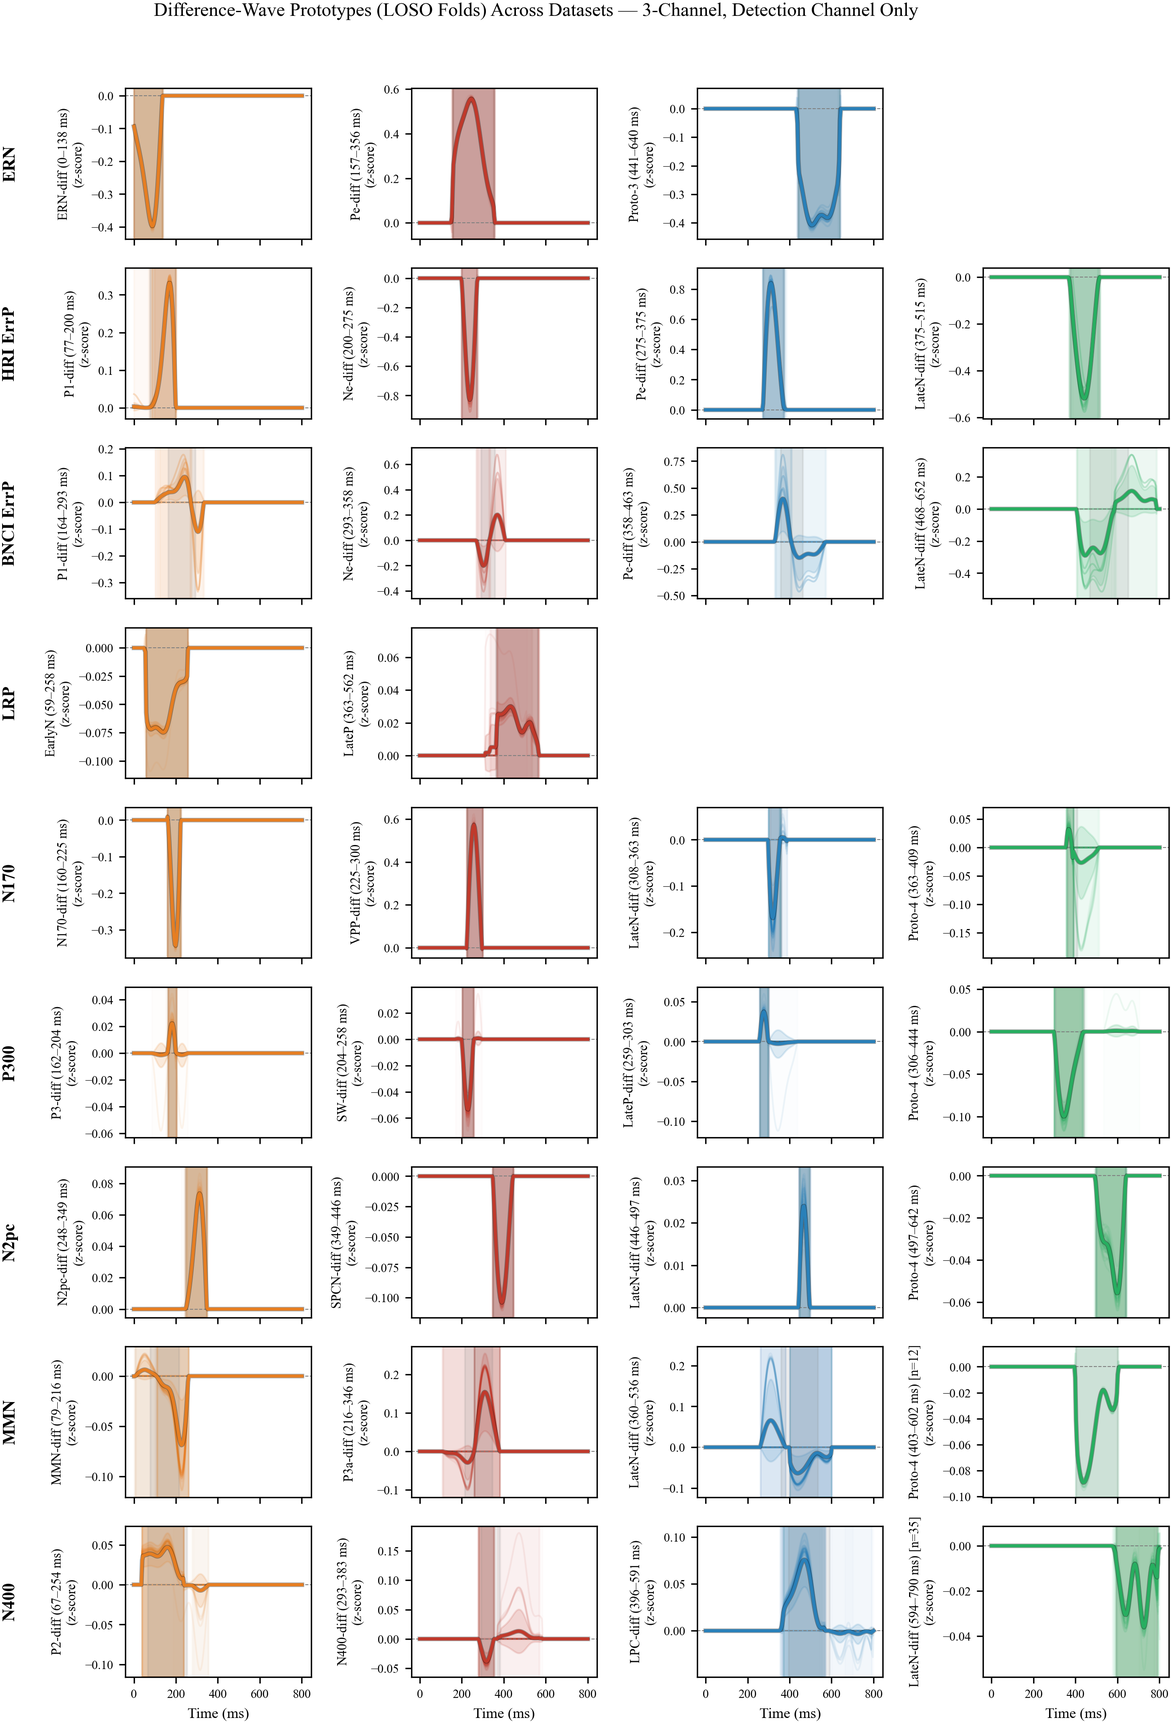
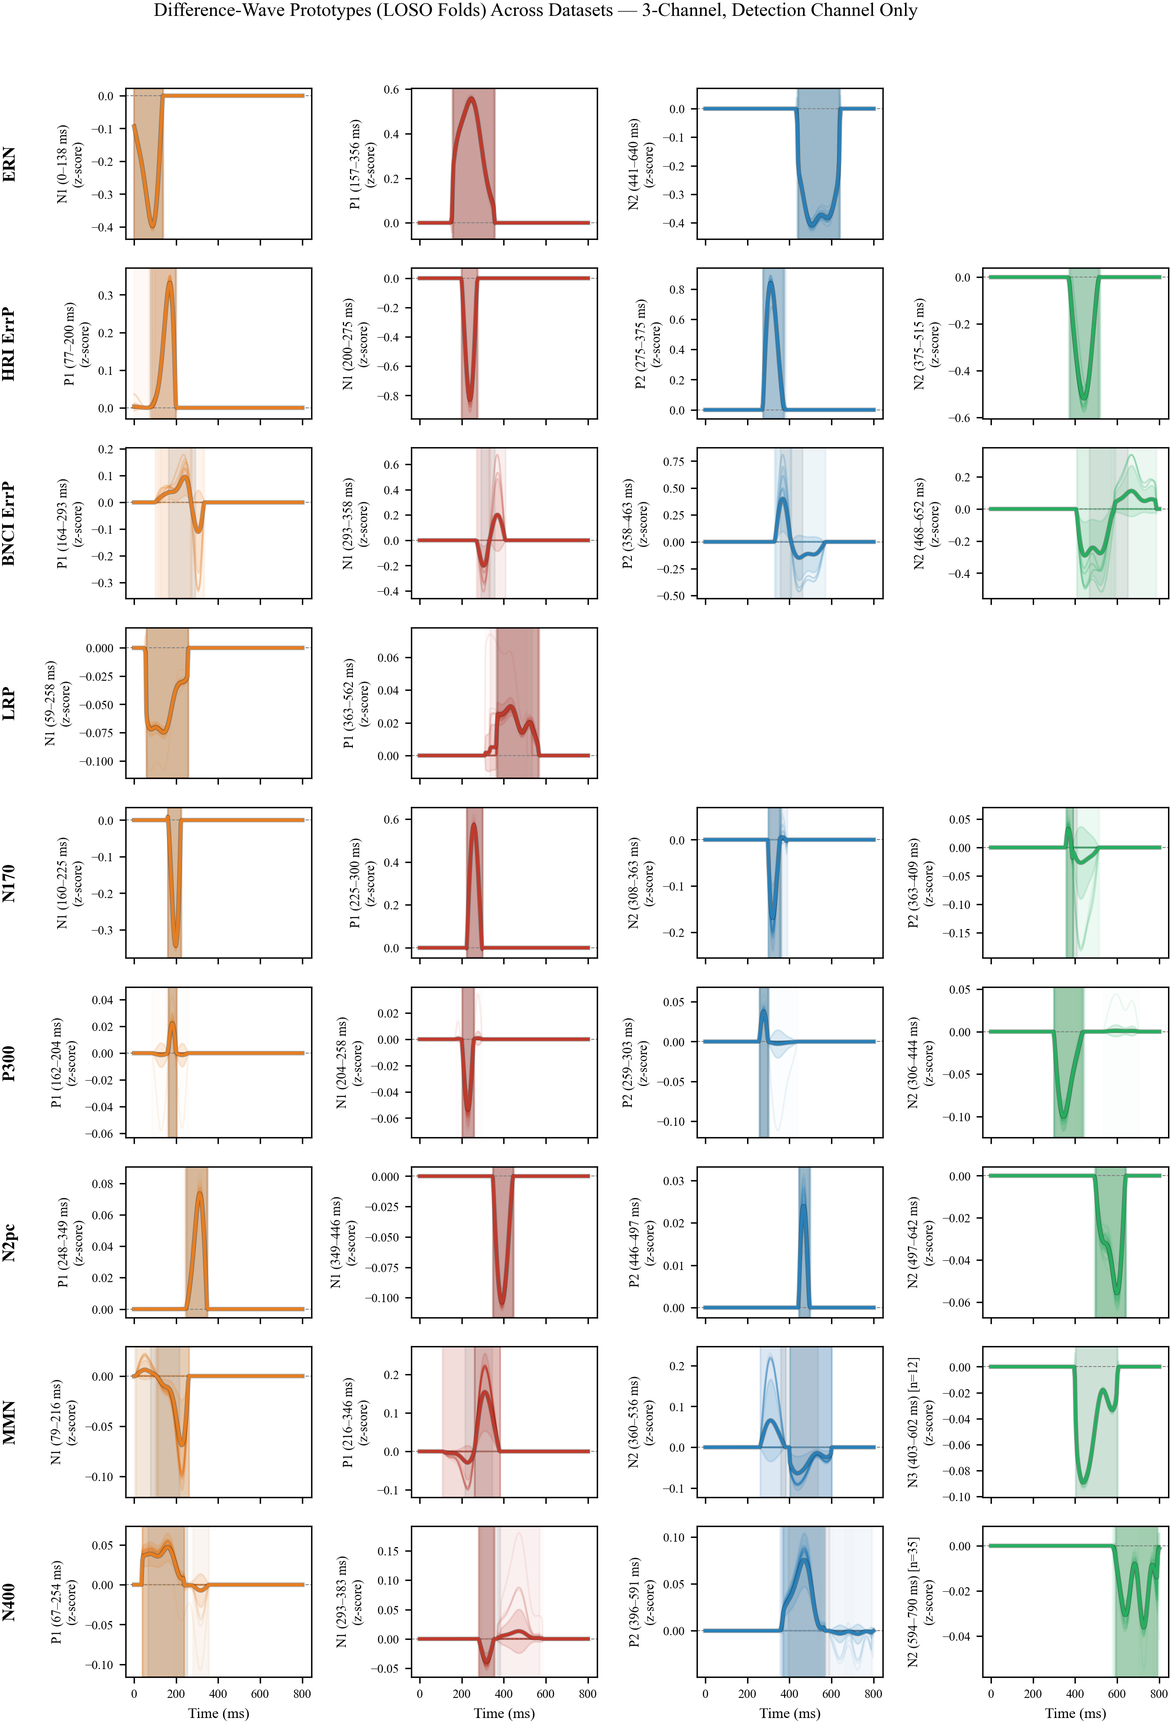
fix figures and tables

diff --git a/07_gen_paper_figures.py b/07_gen_paper_figures.py
@@ -944,16 +944,9 @@ def _proto_names_for(ds_dir, K):
     return names[:K]
 
 
-def _proto_fold_names(proto_raw, proto_windows, det_idx, sfreq, ds_dir=None):
-    """Return prototype names. Prefer dataset_config.proto_names when its
-    length matches the actual K; otherwise fall back to the auto-mode
-    polarity-derived names (P1, P2, ... / N1, N2, ...)."""
+def _proto_fold_names(proto_raw, proto_windows, det_idx, sfreq):
+    """Polarity-derived prototype names (P1, P2, ... / N1, N2, ...)."""
     K = proto_raw.shape[0]
-    if ds_dir is not None:
-        cfg = json.load(open(DATASETS_DIR / ds_dir / 'dataset_config.json'))
-        cfg_names = list(cfg.get('proto_names', []))
-        if len(cfg_names) == K:
-            return cfg_names
     pos_count = neg_count = 0
     names = []
     for k in range(K):
@@ -1117,7 +1110,14 @@ def fig_prototypes_single_dataset(ds_label, ds_dir, var_dir, det_idx,
         windows.append(tuple(np.round(np.mean(wks, axis=0), 1)))
     T = next(iter(all_protos.values())).shape[1]
     time_ms = np.arange(T) / sfreq * 1000
-    proto_names = _proto_names_for(ds_dir, K)
+    rdir_protos = sorted(rdir.glob('prototypes_*.npz'))
+    mean_proto = np.zeros((K, 3, T))
+    for f in rdir_protos:
+        d = np.load(f)
+        p = d['mf_template']
+        mean_proto[:p.shape[0]] += p
+    mean_proto /= max(len(rdir_protos), 1)
+    proto_names = _proto_fold_names(mean_proto, windows, det_idx, sfreq)
     n_subj = len(subjects)
 
     trace_alpha = 0.65
@@ -1211,11 +1211,17 @@ def fig_prototypes_all_datasets():
             windows.append(tuple(np.round(np.mean(wks, axis=0), 1)))
         T = next(iter(all_protos.values())).shape[1]
         time_ms = np.arange(T) / sfreq * 1000
+        C_full = np.load(proto_files[0])['mf_template'].shape[1]
+        mean_proto = np.zeros((K, C_full, T))
+        for f in proto_files:
+            p = np.load(f)['mf_template']
+            mean_proto[:p.shape[0]] += p
+        mean_proto /= max(len(proto_files), 1)
         per_ds.append({
             'name': name, 'subjects': subjects, 'protos': all_protos,
             'per_fold_windows': per_fold_windows, 'fold_K': fold_K,
             'K': K, 'windows': windows, 'time_ms': time_ms,
-            'proto_names': _proto_names_for(ds_dir, K),
+            'proto_names': _proto_fold_names(mean_proto, windows, det_idx, sfreq),
             'n_subj': len(subjects),
         })
 
@@ -1794,7 +1800,7 @@ def write_fullmontage_auroc_table(out_path):
          r'\label{sup:tab-fullmontage-auroc}',
          r'\begin{tabular}{lcccccc}', r'\toprule',
          r'Dataset & ERP-XTTN & EEGNet & EEG-Deformer & EPMN & xDAWN+RG & $\Delta$ \\', r'\midrule']
-    all_means = {n: [] for n, _ in _SUP_METHODS}
+    all_rounded = {n: [] for n, _ in _SUP_METHODS}
     all_deltas = []
     for lab, d in _sup_rows():
         vf = d[3]
@@ -1802,7 +1808,8 @@ def write_fullmontage_auroc_table(out_path):
         for name, mdl in _SUP_METHODS:
             pj = _persubj_fusion(d[1], vf, mdl) if mdl == 'erpxttn_peak' else _persubj_forward(d[1], vf, mdl)
             m, s, n = _msd(pj)
-            vals[name] = (m, s)
+            vals[name] = (round(m, 3) if m is not None else None,
+                          round(s, 3) if s is not None else None)
         best = max((v[0] for v in vals.values() if v[0] is not None), default=None)
         cells = []
         for name, _ in _SUP_METHODS:
@@ -1810,7 +1817,7 @@ def write_fullmontage_auroc_table(out_path):
             if m is None:
                 cells.append('--')
             else:
-                all_means[name].append(m)
+                all_rounded[name].append(m)
                 cell = f'{m:.3f} $\\pm$ {s:.3f}'
                 if best is not None and abs(m - best) < 1e-4:
                     cell = r'\textbf{' + cell + '}'
@@ -1818,7 +1825,7 @@ def write_fullmontage_auroc_table(out_path):
         xt_m = vals['ERP-XTTN'][0]
         bl = [vals[n][0] for n, _ in _SUP_METHODS if n != 'ERP-XTTN' and vals[n][0] is not None]
         if bl and xt_m is not None:
-            delta = max(bl) - xt_m
+            delta = round(max(bl) - xt_m, 3)
             all_deltas.append(delta)
             L.append(f'{lab} & ' + ' & '.join(cells) + f' & \\textit{{{delta:.3f}}} \\\\')
         else:
@@ -1826,18 +1833,18 @@ def write_fullmontage_auroc_table(out_path):
     L.append(r'\midrule')
     mean_cells = []
     for name, _ in _SUP_METHODS:
-        v = all_means[name]
-        m = float(np.mean(v)) if v else None
+        v = all_rounded[name]
+        m = round(float(np.mean(v)), 3) if v else None
         if m is None:
             mean_cells.append('--')
         else:
             mean_cells.append(f'{m:.3f}')
-    best_mean = max(float(np.mean(all_means[n])) for n, _ in _SUP_METHODS if all_means[n])
+    best_mean = max(round(float(np.mean(all_rounded[n])), 3) for n, _ in _SUP_METHODS if all_rounded[n])
     for i, (name, _) in enumerate(_SUP_METHODS):
-        v = all_means[name]
-        if v and abs(float(np.mean(v)) - best_mean) < 1e-4:
+        v = all_rounded[name]
+        if v and abs(round(float(np.mean(v)), 3) - best_mean) < 1e-4:
             mean_cells[i] = r'\textbf{' + mean_cells[i] + '}'
-    mean_delta = float(np.mean(all_deltas)) if all_deltas else None
+    mean_delta = round(float(np.mean(all_deltas)), 3) if all_deltas else None
     delta_cell = f'\\textbf{{{mean_delta:.3f}}}' if mean_delta is not None else '--'
     L.append(r'\textit{Mean} & ' + ' & '.join(mean_cells) + f' & {delta_cell} \\\\')
     L += [r'\bottomrule', r'\end{tabular}', r'\end{table}']
@@ -1864,7 +1871,7 @@ def write_fullmontage_ba_table(out_path):
          r'\label{sup:tab-fullmontage-ba}',
          r'\begin{tabular}{lcccccc}', r'\toprule',
          r'Dataset & ERP-XTTN & EEGNet & EEG-Deformer & EPMN & xDAWN+RG & $\Delta$ \\', r'\midrule']
-    all_means = {n: [] for n, _ in _SUP_METHODS}
+    all_rounded = {n: [] for n, _ in _SUP_METHODS}
     all_deltas = []
     for lab, d in _sup_rows():
         vf = d[3]
@@ -1872,7 +1879,8 @@ def write_fullmontage_ba_table(out_path):
         for name, mdl in _SUP_METHODS:
             pj = _persubj_balacc(d[1], vf, mdl)
             m, s, n = _msd(pj)
-            vals[name] = (m, s)
+            vals[name] = (round(m, 3) if m is not None else None,
+                          round(s, 3) if s is not None else None)
         best = max((v[0] for v in vals.values() if v[0] is not None), default=None)
         cells = []
         for name, _ in _SUP_METHODS:
@@ -1880,7 +1888,7 @@ def write_fullmontage_ba_table(out_path):
             if m is None:
                 cells.append('--')
             else:
-                all_means[name].append(m)
+                all_rounded[name].append(m)
                 cell = f'{m:.3f} $\\pm$ {s:.3f}'
                 if best is not None and abs(m - best) < 1e-4:
                     cell = r'\textbf{' + cell + '}'
@@ -1888,7 +1896,7 @@ def write_fullmontage_ba_table(out_path):
         xt_m = vals['ERP-XTTN'][0]
         bl = [vals[n][0] for n, _ in _SUP_METHODS if n != 'ERP-XTTN' and vals[n][0] is not None]
         if bl and xt_m is not None:
-            delta = max(bl) - xt_m
+            delta = round(max(bl) - xt_m, 3)
             all_deltas.append(delta)
             L.append(f'{lab} & ' + ' & '.join(cells) + f' & \\textit{{{delta:.3f}}} \\\\')
         else:
@@ -1896,15 +1904,15 @@ def write_fullmontage_ba_table(out_path):
     L.append(r'\midrule')
     mean_cells = []
     for name, _ in _SUP_METHODS:
-        v = all_means[name]
-        m = float(np.mean(v)) if v else None
+        v = all_rounded[name]
+        m = round(float(np.mean(v)), 3) if v else None
         mean_cells.append(f'{m:.3f}' if m is not None else '--')
-    best_mean = max(float(np.mean(all_means[n])) for n, _ in _SUP_METHODS if all_means[n])
+    best_mean = max(round(float(np.mean(all_rounded[n])), 3) for n, _ in _SUP_METHODS if all_rounded[n])
     for i, (name, _) in enumerate(_SUP_METHODS):
-        v = all_means[name]
-        if v and abs(float(np.mean(v)) - best_mean) < 1e-4:
+        v = all_rounded[name]
+        if v and abs(round(float(np.mean(v)), 3) - best_mean) < 1e-4:
             mean_cells[i] = r'\textbf{' + mean_cells[i] + '}'
-    mean_delta = float(np.mean(all_deltas)) if all_deltas else None
+    mean_delta = round(float(np.mean(all_deltas)), 3) if all_deltas else None
     delta_cell = f'\\textbf{{{mean_delta:.3f}}}' if mean_delta is not None else '--'
     L.append(r'\textit{Mean} & ' + ' & '.join(mean_cells) + f' & {delta_cell} \\\\')
     L += [r'\bottomrule', r'\end{tabular}', r'\end{table}']
@@ -1926,7 +1934,7 @@ def write_balacc_table(out_path):
          r'\label{sup:tab-balacc}',
          r'\begin{tabular}{lcccccc}', r'\toprule',
          r'Dataset & ERP-XTTN & EEGNet & EEG-Deformer & EPMN & xDAWN+RG & $\Delta$ \\', r'\midrule']
-    all_means = {n: [] for n, _ in _SUP_METHODS}
+    all_rounded = {n: [] for n, _ in _SUP_METHODS}
     all_deltas = []
     for lab, d in _sup_rows():
         v3 = d[2]
@@ -1934,7 +1942,8 @@ def write_balacc_table(out_path):
         for name, mdl in _SUP_METHODS:
             pj = _persubj_balacc(d[1], v3, mdl)
             m, s, n = _msd(pj)
-            vals[name] = (m, s)
+            vals[name] = (round(m, 3) if m is not None else None,
+                          round(s, 3) if s is not None else None)
         best = max((v[0] for v in vals.values() if v[0] is not None), default=None)
         cells = []
         for name, _ in _SUP_METHODS:
@@ -1942,7 +1951,7 @@ def write_balacc_table(out_path):
             if m is None:
                 cells.append('--')
             else:
-                all_means[name].append(m)
+                all_rounded[name].append(m)
                 cell = f'{m:.3f} $\\pm$ {s:.3f}'
                 if best is not None and abs(m - best) < 1e-4:
                     cell = r'\textbf{' + cell + '}'
@@ -1950,7 +1959,7 @@ def write_balacc_table(out_path):
         xt_m = vals['ERP-XTTN'][0]
         bl = [vals[n][0] for n, _ in _SUP_METHODS if n != 'ERP-XTTN' and vals[n][0] is not None]
         if bl and xt_m is not None:
-            delta = max(bl) - xt_m
+            delta = round(max(bl) - xt_m, 3)
             all_deltas.append(delta)
             L.append(f'{lab} & ' + ' & '.join(cells) + f' & \\textit{{{delta:.3f}}} \\\\')
         else:
@@ -1958,15 +1967,15 @@ def write_balacc_table(out_path):
     L.append(r'\midrule')
     mean_cells = []
     for name, _ in _SUP_METHODS:
-        v = all_means[name]
-        m = float(np.mean(v)) if v else None
+        v = all_rounded[name]
+        m = round(float(np.mean(v)), 3) if v else None
         mean_cells.append(f'{m:.3f}' if m is not None else '--')
-    best_mean = max(float(np.mean(all_means[n])) for n, _ in _SUP_METHODS if all_means[n])
+    best_mean = max(round(float(np.mean(all_rounded[n])), 3) for n, _ in _SUP_METHODS if all_rounded[n])
     for i, (name, _) in enumerate(_SUP_METHODS):
-        v = all_means[name]
-        if v and abs(float(np.mean(v)) - best_mean) < 1e-4:
+        v = all_rounded[name]
+        if v and abs(round(float(np.mean(v)), 3) - best_mean) < 1e-4:
             mean_cells[i] = r'\textbf{' + mean_cells[i] + '}'
-    mean_delta = float(np.mean(all_deltas)) if all_deltas else None
+    mean_delta = round(float(np.mean(all_deltas)), 3) if all_deltas else None
     delta_cell = f'\\textbf{{{mean_delta:.3f}}}' if mean_delta is not None else '--'
     L.append(r'\textit{Mean} & ' + ' & '.join(mean_cells) + f' & {delta_cell} \\\\')
     L += [r'\bottomrule', r'\end{tabular}', r'\end{table}']
@@ -2853,7 +2862,7 @@ def write_main_auroc_table(out_path):
          r'Dataset & ERP-XTTN & EEGNet & EEG-Deformer & EPMN & xDAWN+RG & $\Delta$ \\',
          r'\midrule']
     rows = _difficulty_order()
-    all_means = {n: [] for n, _ in _SUP_METHODS}
+    all_rounded = {n: [] for n, _ in _SUP_METHODS}
     all_deltas = []
     for d in rows:
         lab = d[0].replace(' ErrP', '')
@@ -2862,7 +2871,8 @@ def write_main_auroc_table(out_path):
         for name, mdl in _SUP_METHODS:
             pj = _persubj_fusion(d[1], v3, mdl) if mdl == 'erpxttn_peak' else _persubj_forward(d[1], v3, mdl)
             m, s, n = _msd(pj)
-            vals[name] = (m, s)
+            vals[name] = (round(m, 3) if m is not None else None,
+                          round(s, 3) if s is not None else None)
         best = max((v[0] for v in vals.values() if v[0] is not None), default=None)
         cells = []
         for name, _ in _SUP_METHODS:
@@ -2870,7 +2880,7 @@ def write_main_auroc_table(out_path):
             if m is None:
                 cells.append('--')
             else:
-                all_means[name].append(m)
+                all_rounded[name].append(m)
                 cell = f'{m:.3f} $\\pm$ {s:.3f}'
                 if best is not None and abs(m - best) < 1e-4:
                     cell = r'\textbf{' + cell + '}'
@@ -2878,7 +2888,7 @@ def write_main_auroc_table(out_path):
         xt_m = vals['ERP-XTTN'][0]
         bl = [vals[n][0] for n, _ in _SUP_METHODS if n != 'ERP-XTTN' and vals[n][0] is not None]
         if bl and xt_m is not None:
-            delta = max(bl) - xt_m
+            delta = round(max(bl) - xt_m, 3)
             all_deltas.append(delta)
             L.append(f'{lab} & ' + ' & '.join(cells) + f' & \\textit{{{delta:.3f}}} \\\\')
         else:
@@ -2886,18 +2896,18 @@ def write_main_auroc_table(out_path):
     L.append(r'\midrule')
     mean_cells = []
     for name, _ in _SUP_METHODS:
-        v = all_means[name]
-        m = float(np.mean(v)) if v else None
+        v = all_rounded[name]
+        m = round(float(np.mean(v)), 3) if v else None
         if m is None:
             mean_cells.append('--')
         else:
             mean_cells.append(f'{m:.3f}')
-    best_mean = max(float(np.mean(all_means[n])) for n, _ in _SUP_METHODS if all_means[n])
+    best_mean = max(round(float(np.mean(all_rounded[n])), 3) for n, _ in _SUP_METHODS if all_rounded[n])
     for i, (name, _) in enumerate(_SUP_METHODS):
-        v = all_means[name]
-        if v and abs(float(np.mean(v)) - best_mean) < 1e-4:
+        v = all_rounded[name]
+        if v and abs(round(float(np.mean(v)), 3) - best_mean) < 1e-4:
             mean_cells[i] = r'\textbf{' + mean_cells[i] + '}'
-    mean_delta = float(np.mean(all_deltas)) if all_deltas else None
+    mean_delta = round(float(np.mean(all_deltas)), 3) if all_deltas else None
     delta_cell = f'\\textbf{{{mean_delta:.3f}}}' if mean_delta is not None else '--'
     L.append(r'\textit{Mean} & ' + ' & '.join(mean_cells) + f' & {delta_cell} \\\\')
     L += [r'\bottomrule', r'\end{tabular}', r'\end{table}']

diff --git a/paper_figures/tableS6_balanced_accuracy.tex b/paper_figures/tableS6_balanced_accuracy.tex
@@ -10,17 +10,17 @@ Balanced accuracy (mean $\pm$ standard deviation across subjects, LOSO) at thres
 \toprule
 Dataset & ERP-XTTN & EEGNet & EEG-Deformer & EPMN & xDAWN+RG & $\Delta$ \\
 \midrule
-HRI & 0.766 $\pm$ 0.096 & \textbf{0.775 $\pm$ 0.097} & 0.773 $\pm$ 0.090 & 0.738 $\pm$ 0.099 & 0.749 $\pm$ 0.106 & \textit{0.008} \\
+HRI & 0.766 $\pm$ 0.096 & \textbf{0.775 $\pm$ 0.097} & 0.773 $\pm$ 0.090 & 0.738 $\pm$ 0.099 & 0.749 $\pm$ 0.106 & \textit{0.009} \\
 ERN & 0.745 $\pm$ 0.097 & \textbf{0.773 $\pm$ 0.098} & 0.740 $\pm$ 0.103 & 0.697 $\pm$ 0.093 & 0.568 $\pm$ 0.074 & \textit{0.028} \\
 LRP & 0.689 $\pm$ 0.065 & 0.705 $\pm$ 0.069 & 0.691 $\pm$ 0.070 & 0.694 $\pm$ 0.063 & \textbf{0.716 $\pm$ 0.064} & \textit{0.027} \\
 BNCI & 0.708 $\pm$ 0.074 & \textbf{0.711 $\pm$ 0.078} & 0.707 $\pm$ 0.074 & 0.668 $\pm$ 0.075 & 0.637 $\pm$ 0.059 & \textit{0.003} \\
 N170 & 0.661 $\pm$ 0.077 & 0.646 $\pm$ 0.090 & 0.644 $\pm$ 0.081 & 0.636 $\pm$ 0.077 & \textbf{0.667 $\pm$ 0.087} & \textit{0.006} \\
 P300 & 0.618 $\pm$ 0.053 & \textbf{0.649 $\pm$ 0.070} & 0.643 $\pm$ 0.061 & 0.596 $\pm$ 0.054 & 0.512 $\pm$ 0.019 & \textit{0.031} \\
-N2pc & 0.595 $\pm$ 0.061 & 0.599 $\pm$ 0.071 & 0.594 $\pm$ 0.066 & 0.588 $\pm$ 0.061 & \textbf{0.601 $\pm$ 0.070} & \textit{0.005} \\
+N2pc & 0.595 $\pm$ 0.061 & 0.599 $\pm$ 0.071 & 0.594 $\pm$ 0.066 & 0.588 $\pm$ 0.061 & \textbf{0.601 $\pm$ 0.070} & \textit{0.006} \\
 MMN & 0.561 $\pm$ 0.036 & \textbf{0.564 $\pm$ 0.036} & 0.554 $\pm$ 0.031 & 0.534 $\pm$ 0.022 & 0.500 $\pm$ 0.000 & \textit{0.003} \\
 N400 & 0.544 $\pm$ 0.058 & \textbf{0.563 $\pm$ 0.065} & 0.548 $\pm$ 0.052 & 0.550 $\pm$ 0.055 & 0.554 $\pm$ 0.059 & \textit{0.019} \\
 \midrule
-\textit{Mean} & 0.654 & \textbf{0.665} & 0.655 & 0.633 & 0.611 & \textbf{0.015} \\
+\textit{Mean} & 0.654 & \textbf{0.665} & 0.655 & 0.633 & 0.612 & \textbf{0.015} \\
 \bottomrule
 \end{tabular}
 \end{table}

diff --git a/paper_figures/tableS1_fullmontage_auroc.tex b/paper_figures/tableS1_fullmontage_auroc.tex
@@ -12,10 +12,10 @@ Dataset & ERP-XTTN & EEGNet & EEG-Deformer & EPMN & xDAWN+RG & $\Delta$ \\
 \midrule
 HRI & 0.850 $\pm$ 0.098 & 0.869 $\pm$ 0.092 & \textbf{0.877 $\pm$ 0.099} & 0.844 $\pm$ 0.101 & 0.869 $\pm$ 0.085 & \textit{0.027} \\
 ERN & 0.925 $\pm$ 0.055 & \textbf{0.951 $\pm$ 0.042} & 0.942 $\pm$ 0.047 & 0.927 $\pm$ 0.052 & 0.928 $\pm$ 0.054 & \textit{0.026} \\
-LRP & 0.850 $\pm$ 0.067 & \textbf{0.871 $\pm$ 0.070} & 0.868 $\pm$ 0.064 & 0.843 $\pm$ 0.066 & 0.854 $\pm$ 0.074 & \textit{0.022} \\
-BNCI & 0.776 $\pm$ 0.062 & \textbf{0.845 $\pm$ 0.063} & 0.842 $\pm$ 0.089 & 0.811 $\pm$ 0.072 & 0.820 $\pm$ 0.061 & \textit{0.070} \\
+LRP & 0.850 $\pm$ 0.067 & \textbf{0.871 $\pm$ 0.070} & 0.868 $\pm$ 0.064 & 0.843 $\pm$ 0.066 & 0.854 $\pm$ 0.074 & \textit{0.021} \\
+BNCI & 0.776 $\pm$ 0.062 & \textbf{0.845 $\pm$ 0.063} & 0.842 $\pm$ 0.089 & 0.811 $\pm$ 0.072 & 0.820 $\pm$ 0.061 & \textit{0.069} \\
 N170 & 0.768 $\pm$ 0.099 & 0.755 $\pm$ 0.100 & 0.774 $\pm$ 0.104 & 0.732 $\pm$ 0.095 & \textbf{0.793 $\pm$ 0.098} & \textit{0.025} \\
-P300 & 0.700 $\pm$ 0.084 & 0.772 $\pm$ 0.092 & \textbf{0.780 $\pm$ 0.095} & 0.732 $\pm$ 0.088 & 0.722 $\pm$ 0.090 & \textit{0.081} \\
+P300 & 0.700 $\pm$ 0.084 & 0.772 $\pm$ 0.092 & \textbf{0.780 $\pm$ 0.095} & 0.732 $\pm$ 0.088 & 0.722 $\pm$ 0.090 & \textit{0.080} \\
 N2pc & 0.682 $\pm$ 0.076 & 0.698 $\pm$ 0.088 & \textbf{0.701 $\pm$ 0.089} & 0.670 $\pm$ 0.075 & 0.672 $\pm$ 0.077 & \textit{0.019} \\
 MMN & 0.611 $\pm$ 0.046 & 0.617 $\pm$ 0.048 & 0.614 $\pm$ 0.049 & 0.572 $\pm$ 0.036 & \textbf{0.626 $\pm$ 0.052} & \textit{0.015} \\
 N400 & 0.723 $\pm$ 0.075 & \textbf{0.761 $\pm$ 0.079} & 0.727 $\pm$ 0.080 & 0.720 $\pm$ 0.084 & 0.712 $\pm$ 0.078 & \textit{0.038} \\

diff --git a/paper_figures/table2_auroc_3ch.tex b/paper_figures/table2_auroc_3ch.tex
@@ -10,14 +10,14 @@ Dataset & ERP-XTTN & EEGNet & EEG-Deformer & EPMN & xDAWN+RG & $\Delta$ \\
 HRI & 0.837 $\pm$ 0.101 & \textbf{0.858 $\pm$ 0.101} & 0.852 $\pm$ 0.097 & 0.831 $\pm$ 0.100 & 0.837 $\pm$ 0.107 & \textit{0.021} \\
 ERN & 0.824 $\pm$ 0.110 & \textbf{0.869 $\pm$ 0.093} & 0.840 $\pm$ 0.097 & 0.795 $\pm$ 0.096 & 0.793 $\pm$ 0.130 & \textit{0.045} \\
 LRP & 0.761 $\pm$ 0.080 & 0.792 $\pm$ 0.084 & 0.786 $\pm$ 0.081 & 0.769 $\pm$ 0.080 & \textbf{0.796 $\pm$ 0.074} & \textit{0.035} \\
-BNCI & 0.771 $\pm$ 0.084 & \textbf{0.792 $\pm$ 0.088} & 0.787 $\pm$ 0.084 & 0.727 $\pm$ 0.102 & 0.785 $\pm$ 0.082 & \textit{0.022} \\
+BNCI & 0.771 $\pm$ 0.084 & \textbf{0.792 $\pm$ 0.088} & 0.787 $\pm$ 0.084 & 0.727 $\pm$ 0.102 & 0.785 $\pm$ 0.082 & \textit{0.021} \\
 N170 & 0.737 $\pm$ 0.105 & 0.732 $\pm$ 0.105 & 0.730 $\pm$ 0.106 & 0.712 $\pm$ 0.104 & \textbf{0.748 $\pm$ 0.104} & \textit{0.011} \\
 P300 & 0.664 $\pm$ 0.071 & \textbf{0.723 $\pm$ 0.087} & 0.717 $\pm$ 0.082 & 0.674 $\pm$ 0.077 & 0.660 $\pm$ 0.091 & \textit{0.059} \\
 N2pc & 0.639 $\pm$ 0.081 & 0.648 $\pm$ 0.092 & 0.641 $\pm$ 0.092 & 0.634 $\pm$ 0.082 & \textbf{0.649 $\pm$ 0.093} & \textit{0.010} \\
 MMN & 0.587 $\pm$ 0.049 & 0.589 $\pm$ 0.049 & 0.587 $\pm$ 0.050 & 0.562 $\pm$ 0.038 & \textbf{0.593 $\pm$ 0.048} & \textit{0.006} \\
 N400 & 0.565 $\pm$ 0.077 & \textbf{0.586 $\pm$ 0.087} & 0.578 $\pm$ 0.079 & 0.573 $\pm$ 0.077 & 0.580 $\pm$ 0.081 & \textit{0.021} \\
 \midrule
-\textit{Mean} & 0.710 & \textbf{0.732} & 0.724 & 0.698 & 0.716 & \textbf{0.025} \\
+\textit{Mean} & 0.709 & \textbf{0.732} & 0.724 & 0.697 & 0.716 & \textbf{0.025} \\
 \bottomrule
 \end{tabular}
 \end{table}

diff --git a/paper_figures/tableS2_fullmontage_ba.tex b/paper_figures/tableS2_fullmontage_ba.tex
@@ -12,10 +12,10 @@ Dataset & ERP-XTTN & EEGNet & EEG-Deformer & EPMN & xDAWN+RG & $\Delta$ \\
 \midrule
 HRI & 0.774 $\pm$ 0.094 & 0.771 $\pm$ 0.098 & 0.787 $\pm$ 0.093 & 0.753 $\pm$ 0.099 & \textbf{0.788 $\pm$ 0.099} & \textit{0.014} \\
 ERN & 0.852 $\pm$ 0.072 & \textbf{0.868 $\pm$ 0.081} & 0.830 $\pm$ 0.096 & 0.806 $\pm$ 0.098 & 0.756 $\pm$ 0.110 & \textit{0.016} \\
-LRP & 0.769 $\pm$ 0.065 & \textbf{0.780 $\pm$ 0.072} & 0.765 $\pm$ 0.063 & 0.752 $\pm$ 0.059 & 0.771 $\pm$ 0.069 & \textit{0.012} \\
+LRP & 0.769 $\pm$ 0.065 & \textbf{0.780 $\pm$ 0.072} & 0.765 $\pm$ 0.063 & 0.752 $\pm$ 0.059 & 0.771 $\pm$ 0.069 & \textit{0.011} \\
 BNCI & 0.694 $\pm$ 0.046 & 0.753 $\pm$ 0.073 & \textbf{0.757 $\pm$ 0.089} & 0.708 $\pm$ 0.082 & 0.693 $\pm$ 0.076 & \textit{0.063} \\
 N170 & 0.686 $\pm$ 0.079 & 0.677 $\pm$ 0.079 & 0.693 $\pm$ 0.082 & 0.653 $\pm$ 0.067 & \textbf{0.710 $\pm$ 0.083} & \textit{0.024} \\
-P300 & 0.636 $\pm$ 0.065 & 0.694 $\pm$ 0.076 & \textbf{0.701 $\pm$ 0.077} & 0.632 $\pm$ 0.069 & 0.577 $\pm$ 0.066 & \textit{0.066} \\
+P300 & 0.636 $\pm$ 0.065 & 0.694 $\pm$ 0.076 & \textbf{0.701 $\pm$ 0.077} & 0.632 $\pm$ 0.069 & 0.577 $\pm$ 0.066 & \textit{0.065} \\
 N2pc & 0.626 $\pm$ 0.057 & 0.636 $\pm$ 0.064 & \textbf{0.640 $\pm$ 0.065} & 0.617 $\pm$ 0.054 & 0.614 $\pm$ 0.056 & \textit{0.014} \\
 MMN & 0.578 $\pm$ 0.035 & \textbf{0.583 $\pm$ 0.035} & 0.573 $\pm$ 0.035 & 0.536 $\pm$ 0.023 & 0.503 $\pm$ 0.005 & \textit{0.005} \\
 N400 & 0.662 $\pm$ 0.062 & \textbf{0.681 $\pm$ 0.066} & 0.653 $\pm$ 0.064 & 0.648 $\pm$ 0.067 & 0.651 $\pm$ 0.069 & \textit{0.019} \\
